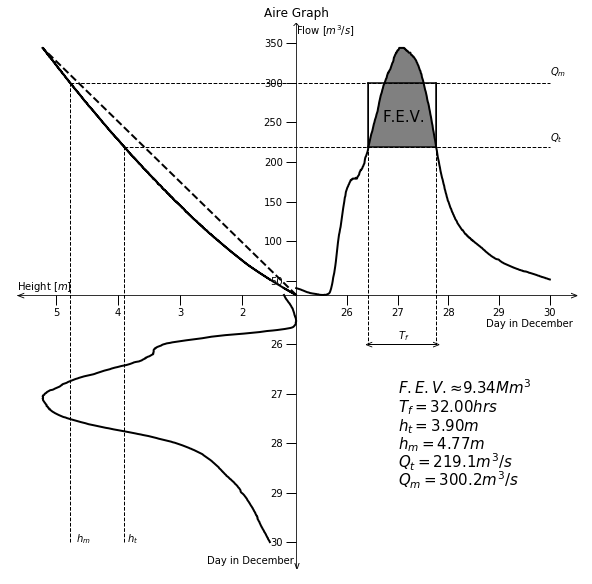
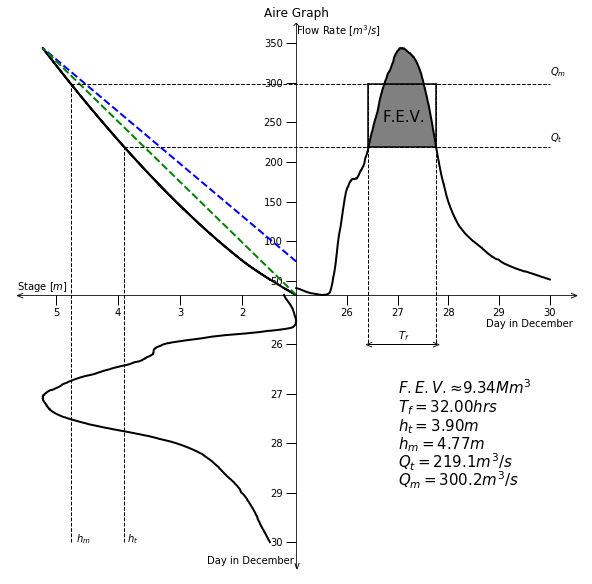
Add files via upload

diff --git a/Aire-Quadrant_Graph_Code.py b/Aire-Quadrant_Graph_Code.py
@@ -1,44 +1,104 @@
+#managed to do this by only knowing the dates, heights and  ht.
+#my qm is 299.4 not 300.2, why?
+#ask about the dotted line. would you prefer it to the actual origin or the 'origin'.
+
+#could automate more by doing lists with upper limits for rating curve and figuring
+#out a quick way to place the ticks, e.g. a function or a loop.
+
 import matplotlib.pyplot as plt
 import pandas as pd
+import numpy as np
 
 plt.rcParams["figure.figsize"] = [10,10]
 plt.rcParams['axes.edgecolor']='white'
+fig, ax = plt.subplots()
 
+#Import the Data
 armley=pd.read_csv('Aire Data.csv')
 day = armley['Day in December']
 flow = armley['Flow Rate (m^3/s)']
 height = armley['Height (m)']
 
+#Scale our Data
 def scale(x):
     return ((x-min(x))/(max(x)-min(x)))
-
 scaledday = scale(day)
-scaledflow = scale(flow)
 scaledheight = scale(height)
+
+#finding and using ht from the hm.
+ht=3.9
+HM = []
+for i in height:
+    if i>=ht:
+        HM.append(i)
+hm=sum(HM)/len(HM)
+print(hm)
+
+#Finding qt and qm.
+def Q(x):
+    if x<=0.685 and x>=0.165:
+        y = (30.69*((x-0.156)**1.115))
+    elif x<=1.917 and x>0.685:
+        y = (27.884*((x-0.028)**1.462))
+    elif x<=max(height) and x>1.917:
+        y = (30.127*((x-0.153)**1.502))
+    return(y)
+qt = Q(ht)
+qm = Q(hm)   
+print(qt)
+print(qm)
+
+#Rating Curve
+Flow = []
+for i in height:
+    if i<=0.685 and i>=0.165:
+        Flow.append(30.69*((i-0.156)**1.115))
+    elif i<=1.917 and i>0.685:
+        Flow.append(27.884*((i-0.028)**1.462))
+    elif i<=max(height) and i>1.917:
+        Flow.append(30.127*((i-0.153)**1.502))
+
+#Scale the Rating Curve points.
+a = -1*((0-min(height))/(max(height)-min(height))) #scaled x origin.
+b = ((0-min(Flow))/(max(Flow)-min(Flow))) #scaled y origin.
+def A(x):
+    y = (((b-1)/(a-(-1)))*(x+1))+1
+#I worked this out using the formula for the equation of a line through 2 points,
+#y-y_1=m(x-x_1)
+    return(y)
+c = 0
+d = A(c)
+
+scaledFlow = []
+for i in Flow:
+    scaledFlow.append((i-min(Flow))/(max(Flow)-min(Flow)))
+
+
+#Plot the Rating Curve using Q NOT the Flow Rate.
+negheight = -scaledheight
+ax.plot(negheight,scaledFlow,'black',linewidth=2)
+ax.plot([c,-1], [d,1], 'blue',linestyle='--', marker='', linewidth=2)
+ax.plot([0,-1],[0,1],'green',linestyle='--', marker='', linewidth=2)
+#Originally the dotted line was wrong because it went to the positional origin
+#and not the actual origin.
+
+#Plot the Flow Rate and Height against the Date.
 negday = -(scaledday)
-negheight = -(scaledheight)
-
-scaledht = (3.9-min(height))/(max(height)-min(height))
-scaledhm = (4.77-min(height))/(max(height)-min(height))
-scaledqm = (300.2-min(flow))/(max(flow)-min(flow))
-scaledqt = (219.1-min(flow))/(max(flow)-min(flow))
-
-a = ((max(height)-min(height))/(max(height)-min(height)))
-b = ((max(flow)-min(flow))/(max(flow)-min(flow)))
-
-fig, ax = plt.subplots()
-
-ax.plot(scaledday, scaledflow, 'black', linewidth=2)
+ax.plot(scaledday, scaledFlow, 'black', linewidth=2)
 ax.plot(negheight, negday, 'black', linewidth=2)
-ax.plot(negheight, scaledflow, 'black', linewidth=2)
 
-ax.plot([0,-1*a], [0,b], 'black', linestyle='--', marker='', linewidth=2)
-
+#Plot the lines illustrating ht,hm,qt,qm
+#Scaling ht,hm,qt and qm.
+scaledht = (ht-min(height))/(max(height)-min(height))
+scaledhm = (hm-min(height))/(max(height)-min(height))
+scaledqt = (qt-min(Flow))/(max(Flow)-min(Flow))
+scaledqm = (qm-min(Flow))/(max(Flow)-min(Flow))
 ax.plot([-scaledht,-scaledht],[-1,scaledqt], 'black', linestyle='--', linewidth=1)
 ax.plot([-scaledhm,-scaledhm],[-1,scaledqm], 'black', linestyle='--', linewidth=1)
 ax.plot([-scaledht,1],[scaledqt,scaledqt], 'black', linestyle='--', linewidth=1)
 ax.plot([-scaledhm,1],[scaledqm,scaledqm], 'black', linestyle='--', linewidth=1)
 
+#Fiddly plot to plot the box around the F.E.V. and the Tf line.
 ax.plot([71/250,71/250,71/250],[scaledqt,scaledqm,-1/5], 'black', linestyle='--', linewidth=1)
 ax.plot([69/125,69/125,69/125],[scaledqt,scaledqm,-1/5], 'black', linestyle='--', linewidth=1)
 ax.plot([71/250,69/125],[-1/5,-1/5], 'black', linewidth=1)
@@ -47,26 +107,29 @@ ax.plot([71/250,69/125],[scaledqm,scaledqm], 'black',linewidth=1.5)
 ax.plot([71/250,69/125],[scaledqt,scaledqt], 'black',linewidth=1.5)
 ax.plot([69/125,69/125],[scaledqm,scaledqt], 'black',linewidth=1.5)
 
-ticks_x = [-4874/4091,-3874/4091,-2874/4091,-1874/4091,-874/4091,1/5,2/5,3/5,4/5,1]
-#done by doing (2-min(height))/(max(height)-min(height)) to find where 2 should be positioned on the axis.
+#Formatting the ticks and the Axis.
+ticks_x = [-3874/4091,-2874/4091,-1874/4091,-874/4091,1/5,2/5,3/5,4/5,1]
+#This describes the position I want each tick to be on a graph with x axis from -1 to 1.
+#done by doing (2-min(height))/(max(height)-min(height)) to find where 2 should be 
+#   positioned on the axis.
 ticks_y = [-1,-4/5,-3/5,-2/5,-1/5,3/52,17/78,59/156,7/13,109/156,67/78,53/52]
 ax.set_xticks(ticks_x)
 ax.set_yticks(ticks_y)
-Ticks_x = [6,5,4,3,2,26,27,28,29,30]
+Ticks_x = [5,4,3,2,26,27,28,29,30]
 Ticks_y = [30,29,28,27,26,50,100,150,200,250,300,350]
 ax.set_xticklabels(Ticks_x)
 ax.set_yticklabels(Ticks_y)
-ax.spines['left'].set_position('center')
-ax.spines['bottom'].set_position('center')
+ax.spines['left'].set_position(('center'))
+ax.spines['bottom'].set_position(('center'))
 ax.spines['left'].set_color('black')
 ax.spines['bottom'].set_color('black')
 ax.tick_params(axis='x', colors='black', direction='out', length=10, width=1)
 ax.tick_params(axis='y', colors='black', direction='out', length=10, width=1)
 
-ax.fill_between(scaledday, scaledflow, scaledqt, where=scaledflow >= scaledqt, facecolor='gray')
-
+#Graph Title.
 plt.title('Aire Graph')
 
+#Graph labels.
 plt.text(-4/6, -1,'$h_t$')
 plt.text(-13/15, -1,'$h_m$')
 plt.text(1, 187/210,'$Q_m$')
@@ -76,19 +139,35 @@ plt.text(0.4,-0.18,'$T_f$')
 plt.text(0.27,-0.213,'<')
 plt.text(0.535,-0.213,'>')
 
-plt.text(0, 1.05,'Flow $[m^3/s]$', size=10)
+#Axis Labels.
+plt.text(0, 1.05,'Flow Rate $[m^3/s]$', size=10)
 plt.text(0.75, -0.13,'Day in December', size=10)
 plt.text(-0.35, -1.09,'Day in December', size=10)
-plt.text(-1.1, 0.02,'Height $[m]$', size=10)
+plt.text(-1.1, 0.02,'Stage $[m]$', size=10)
 
+#Arrows at end of Axis.
 plt.text(-0.015,1.07,'^')
 plt.text(-0.011,-1.11,'v')
-plt.text(1.08,-0.015,'>')
-plt.text(-1.1,-0.015,'<')
+plt.text(1.08,-0.013,'>')
+plt.text(-1.105,-0.013,'<')
 
+#Text on Graph.
 plt.text(0.4,-0.4,'$F.E.V.≈9.34Mm^3$', size=15)
 plt.text(0.4,-0.475,'$T_f=32.00hrs$', size=15)
 plt.text(0.4,-0.55,'$h_t=3.90m$', size=15)
 plt.text(0.4,-0.625,'$h_m=4.77m$', size=15)
 plt.text(0.4,-0.7,'$Q_t=219.1m^3/s$', size=15)
 plt.text(0.4,-0.775,'$Q_m=300.2m^3/s$', size=15)
+
+#Fill in the F.E.V.
+QT=[]
+for i in scaledFlow:
+    i = scaledqt
+    QT.append(i)
+#Because I have to make qt into a list otherwise I get an error because I'm comparing
+#a list with a float.
+a=np.array(scaledFlow)
+b=np.array(QT)
+#Puts lists into an array as opposed to a list. Means that Python finds it easier to
+#compare the 2.
+ax.fill_between(scaledday,a,b,where=a>=b,facecolor='gray')
